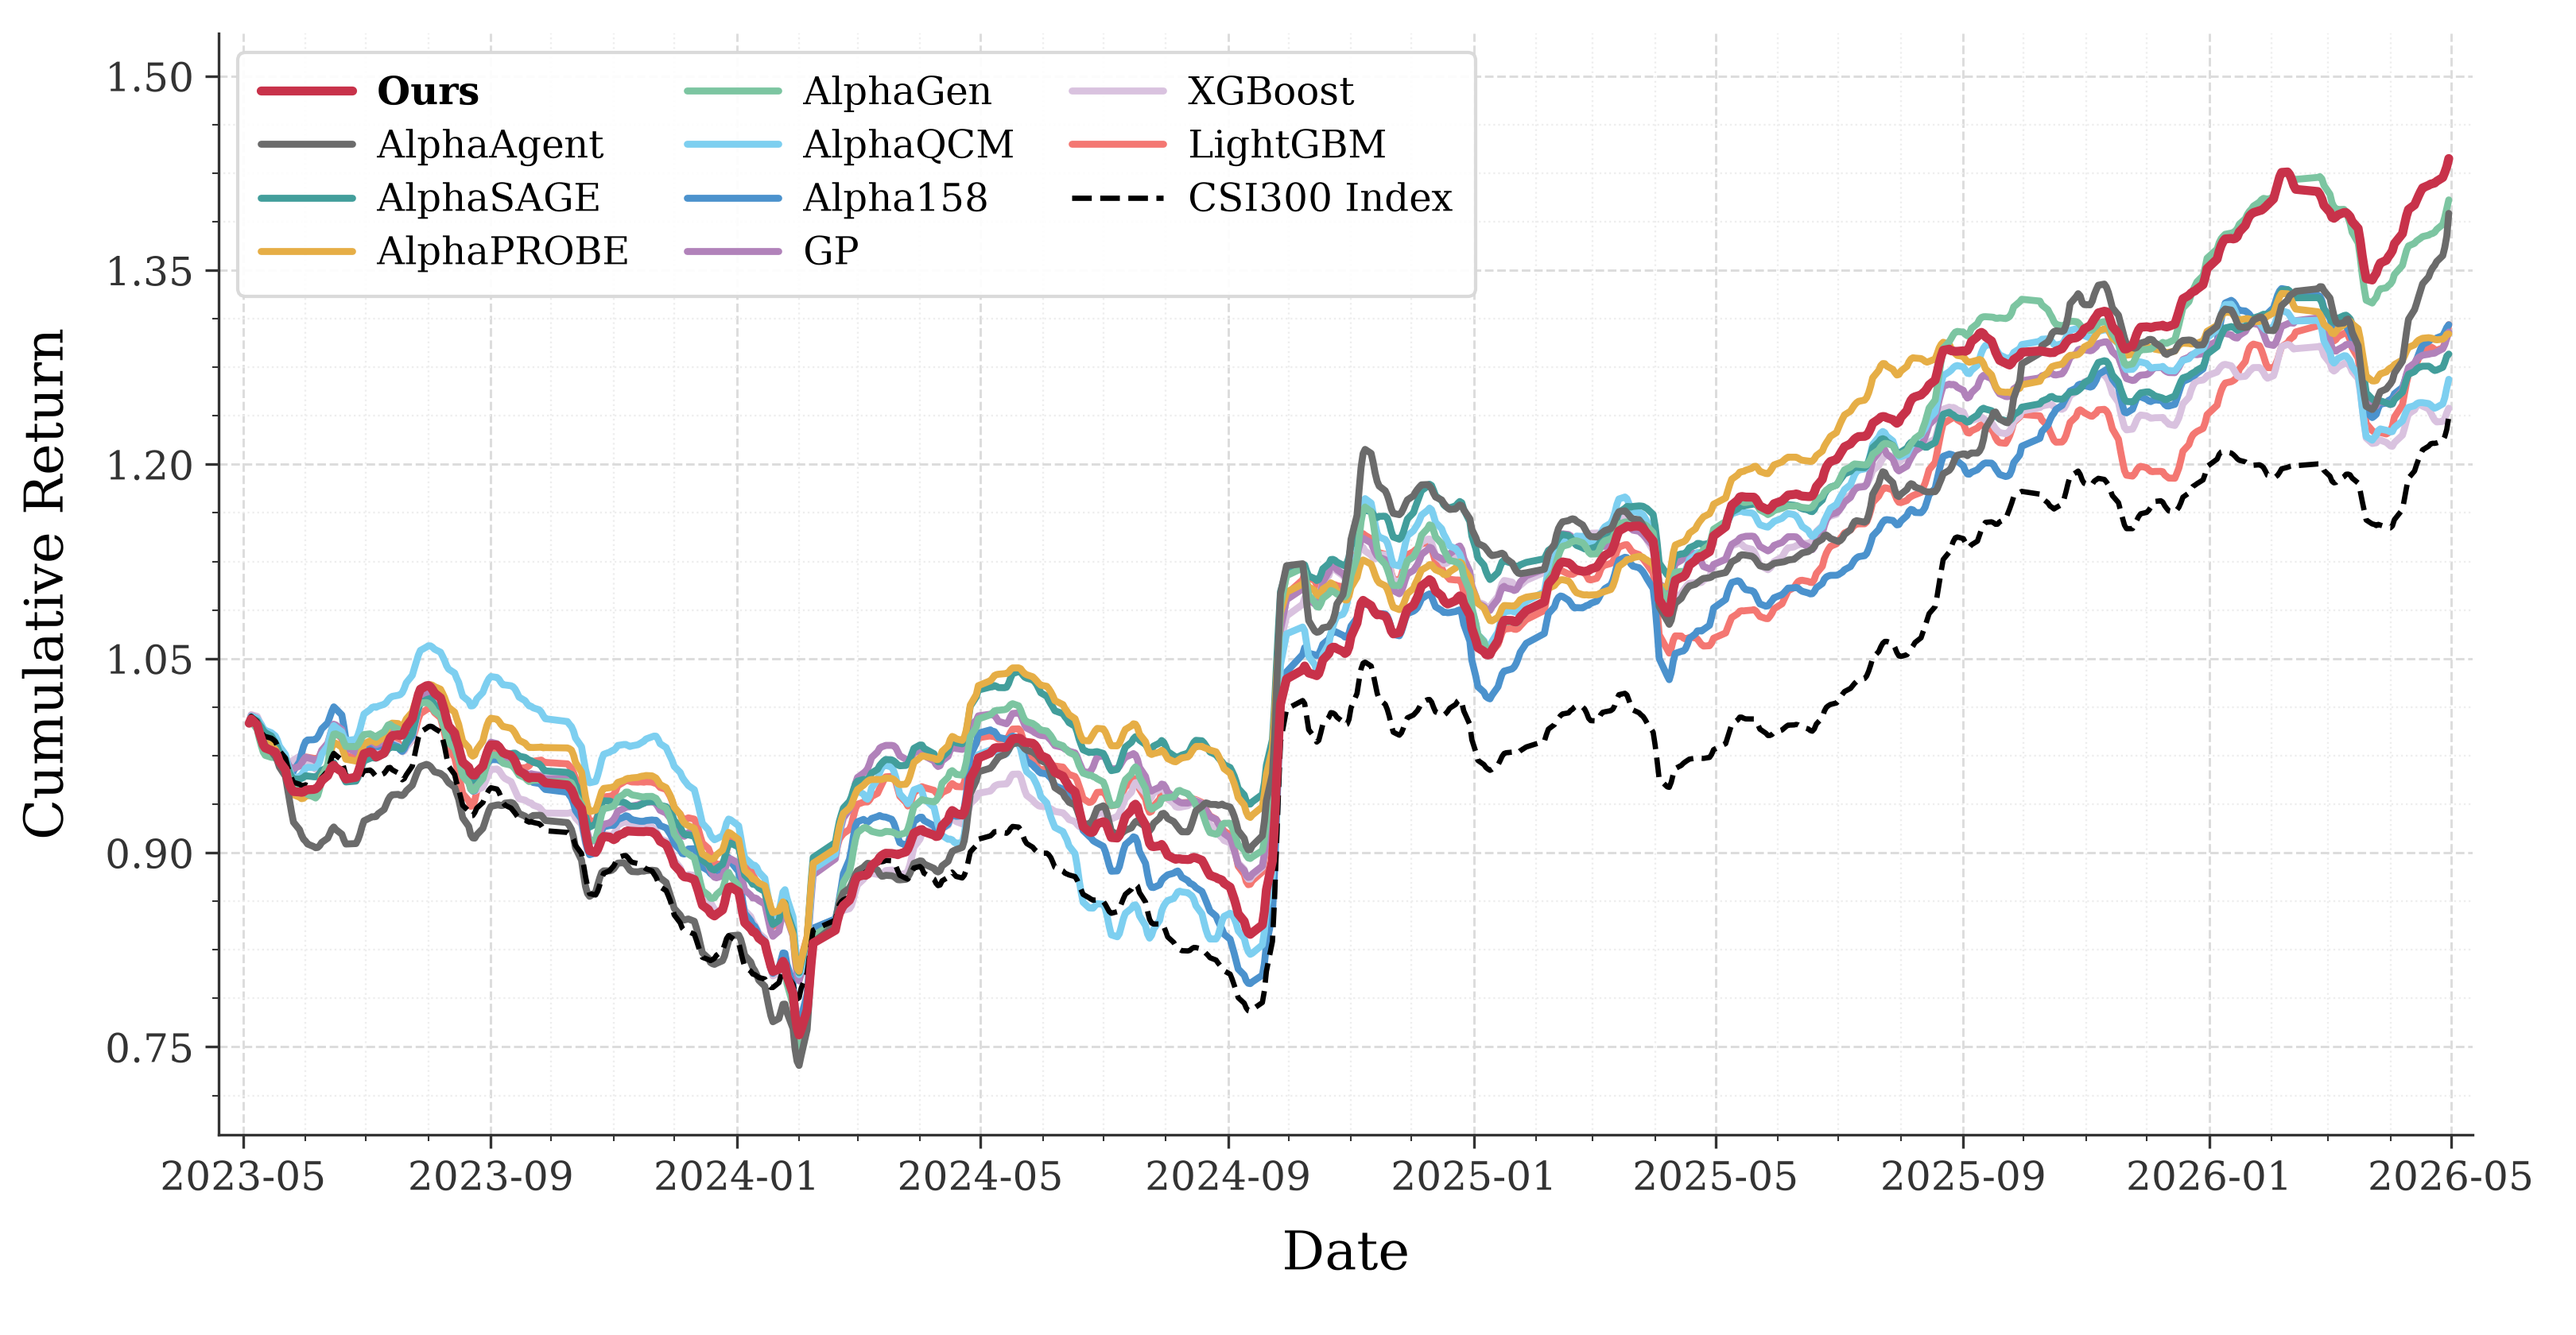
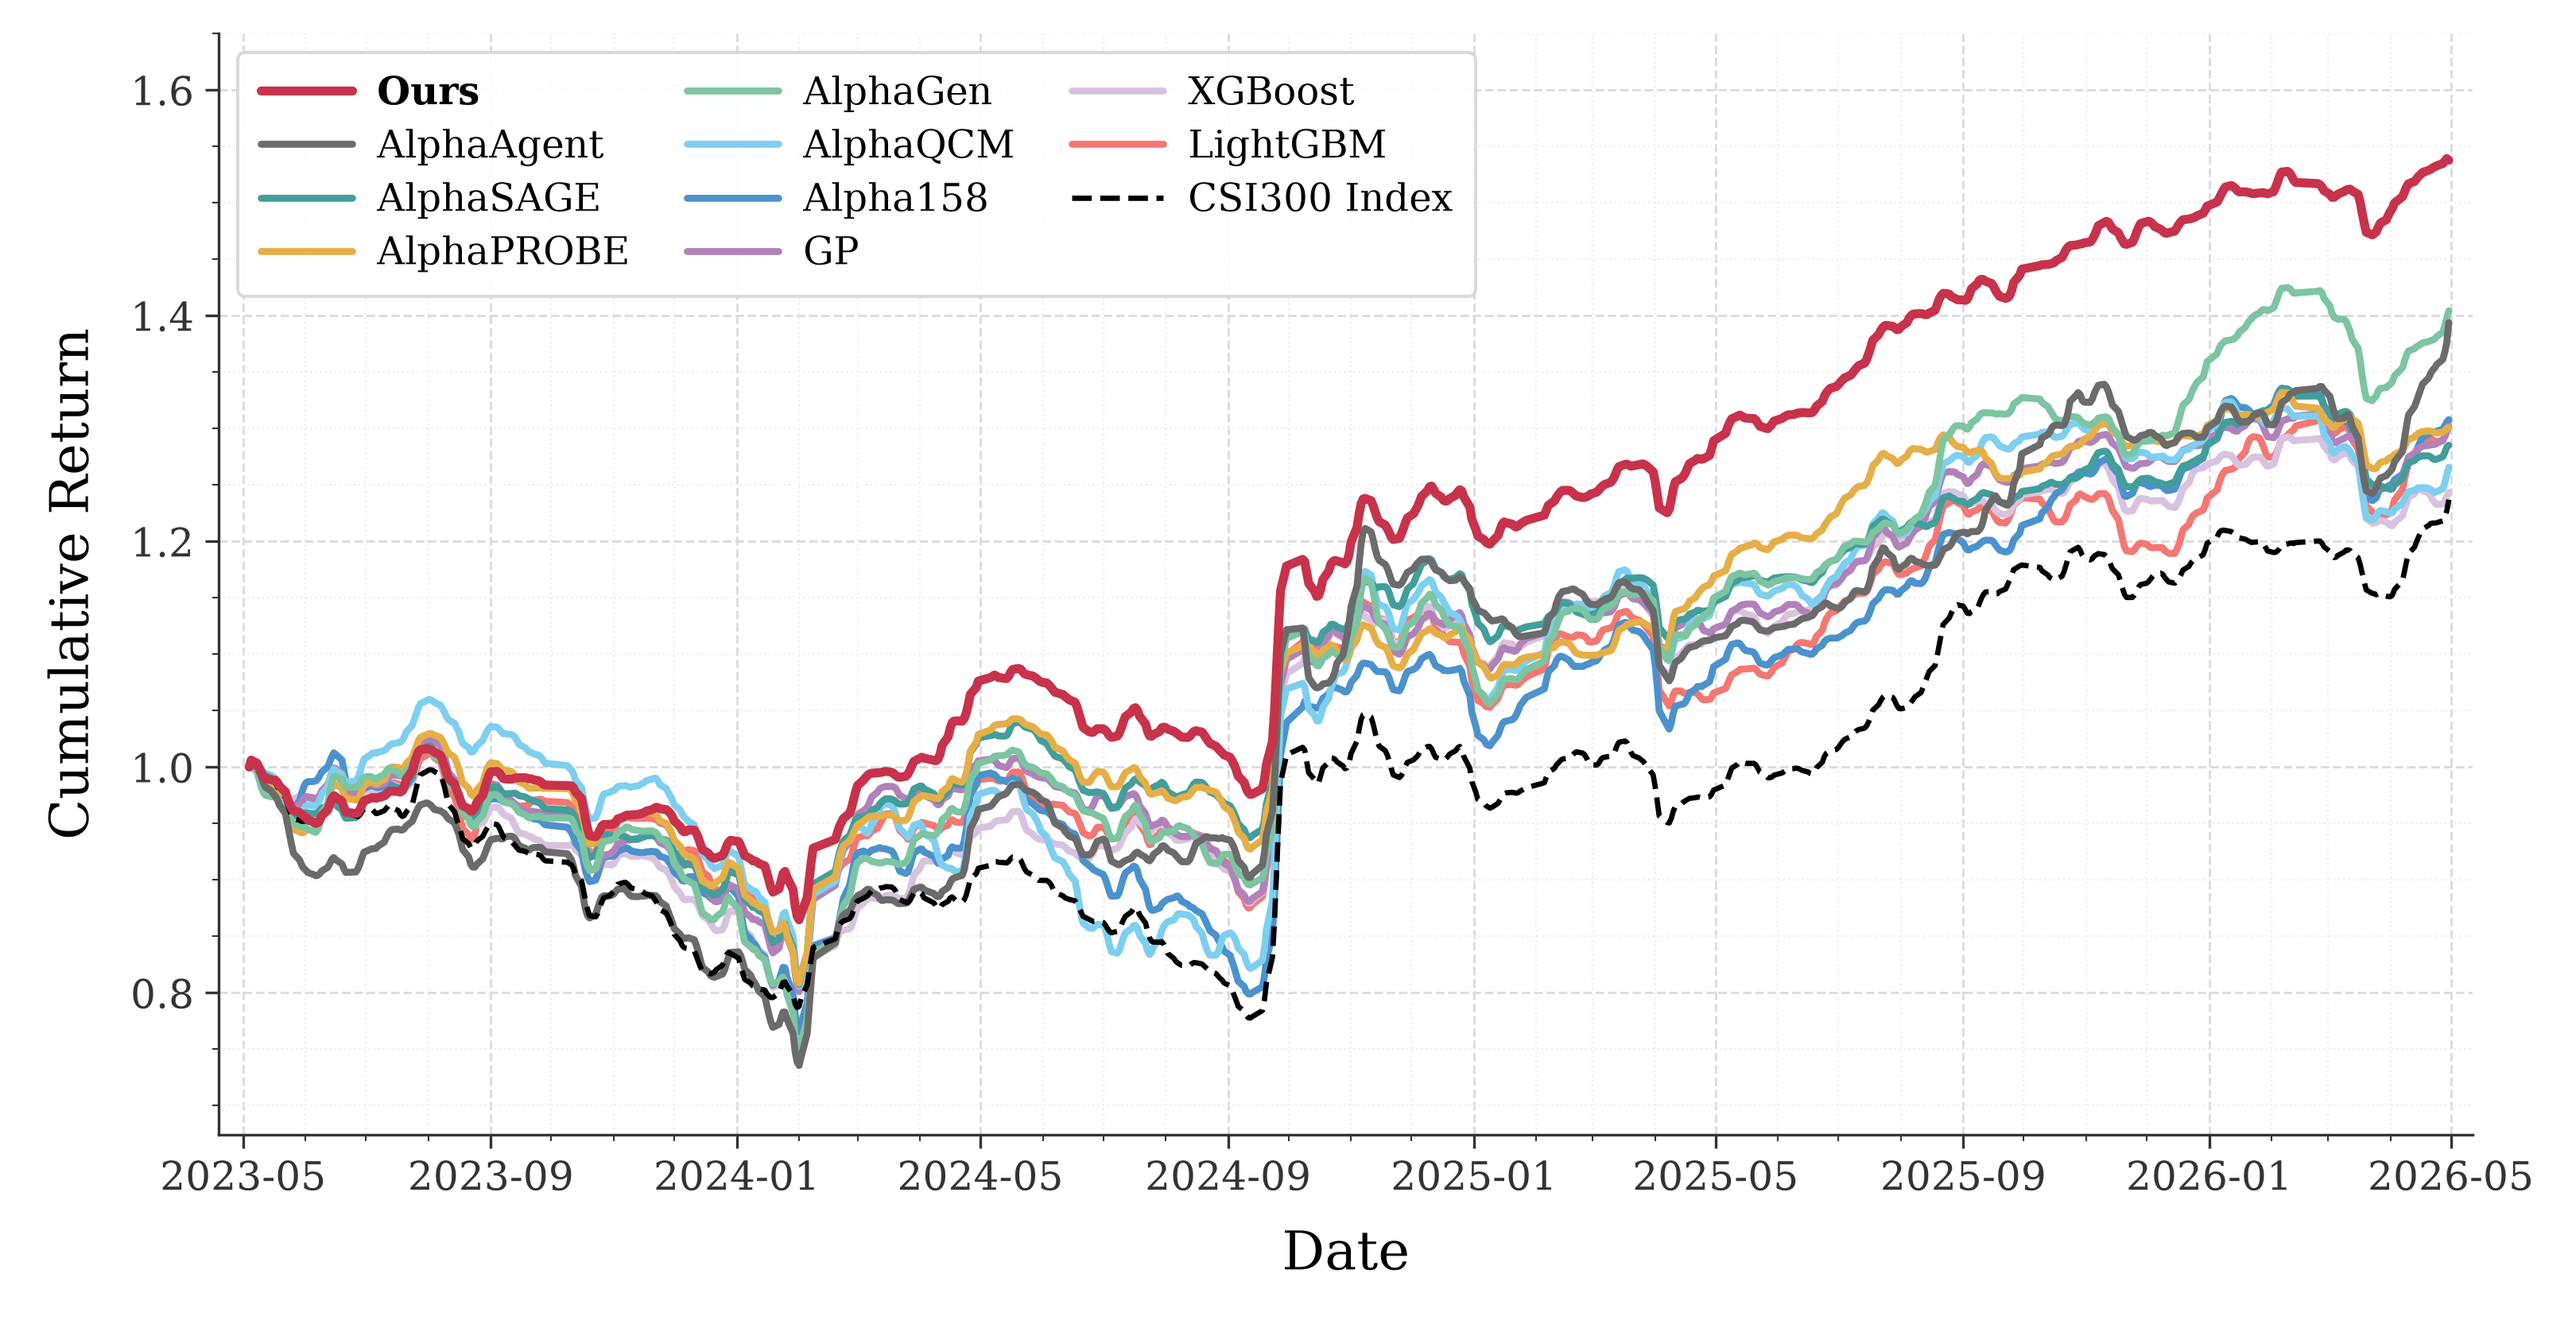
Restore

diff --git a/plot_profit_curve.py b/plot_profit_curve.py
@@ -26,7 +26,7 @@ RUNS: dict = {
         "AlphaSAGE": {"path": "data/gfn_logs/pool_50/gfn_gnn_csi300_50_2-0.01-1.0-1.0-1.0-0.3-linear-0.0/ret_s.npy", "data_start_date": "2023-05-01"},
         "AlphaPROBE": {"path": "data/knowledge_logs/pool_50/kg_dag_and_bayesian_icir_and_mutl_new_no_decay_MiniMax-M3_5_csi300_0.5_7_50_0.9_50_20_0.006_True_True_False_True_0.7_0.1_0.05/adaptive_n20/round_20/ret_s.npy", "data_start_date": "2023-05-01"},
         "AlphaGen": {"path": "data/ppo_logs/pool_20/ppo_csi300_20_0-20260905132532/ppo_csi300_20_0_20260905132532/ret_s.npy", "data_start_date": "2023-05-01"},
-        "Ours": {"path": "data/cf_logs/20261024_020903_733059_csi300_0_gd-mobile-deepseek-v4.1-flash-1017/ret_s.npy", "data_start_date": "2023-05-01"},
+        "Ours": {"path": "data/cf_logs/20261013_225346_506634_csi300_0_MiniMax-M3/ret_s.npy", "data_start_date": "2023-05-01"},
 
         "AlphaAgent": "data/logs/alphaagent/csi300/validation_combiners_20261102/blend_a2_b45/ret_s.npy",
         "CSI300 Index": {
